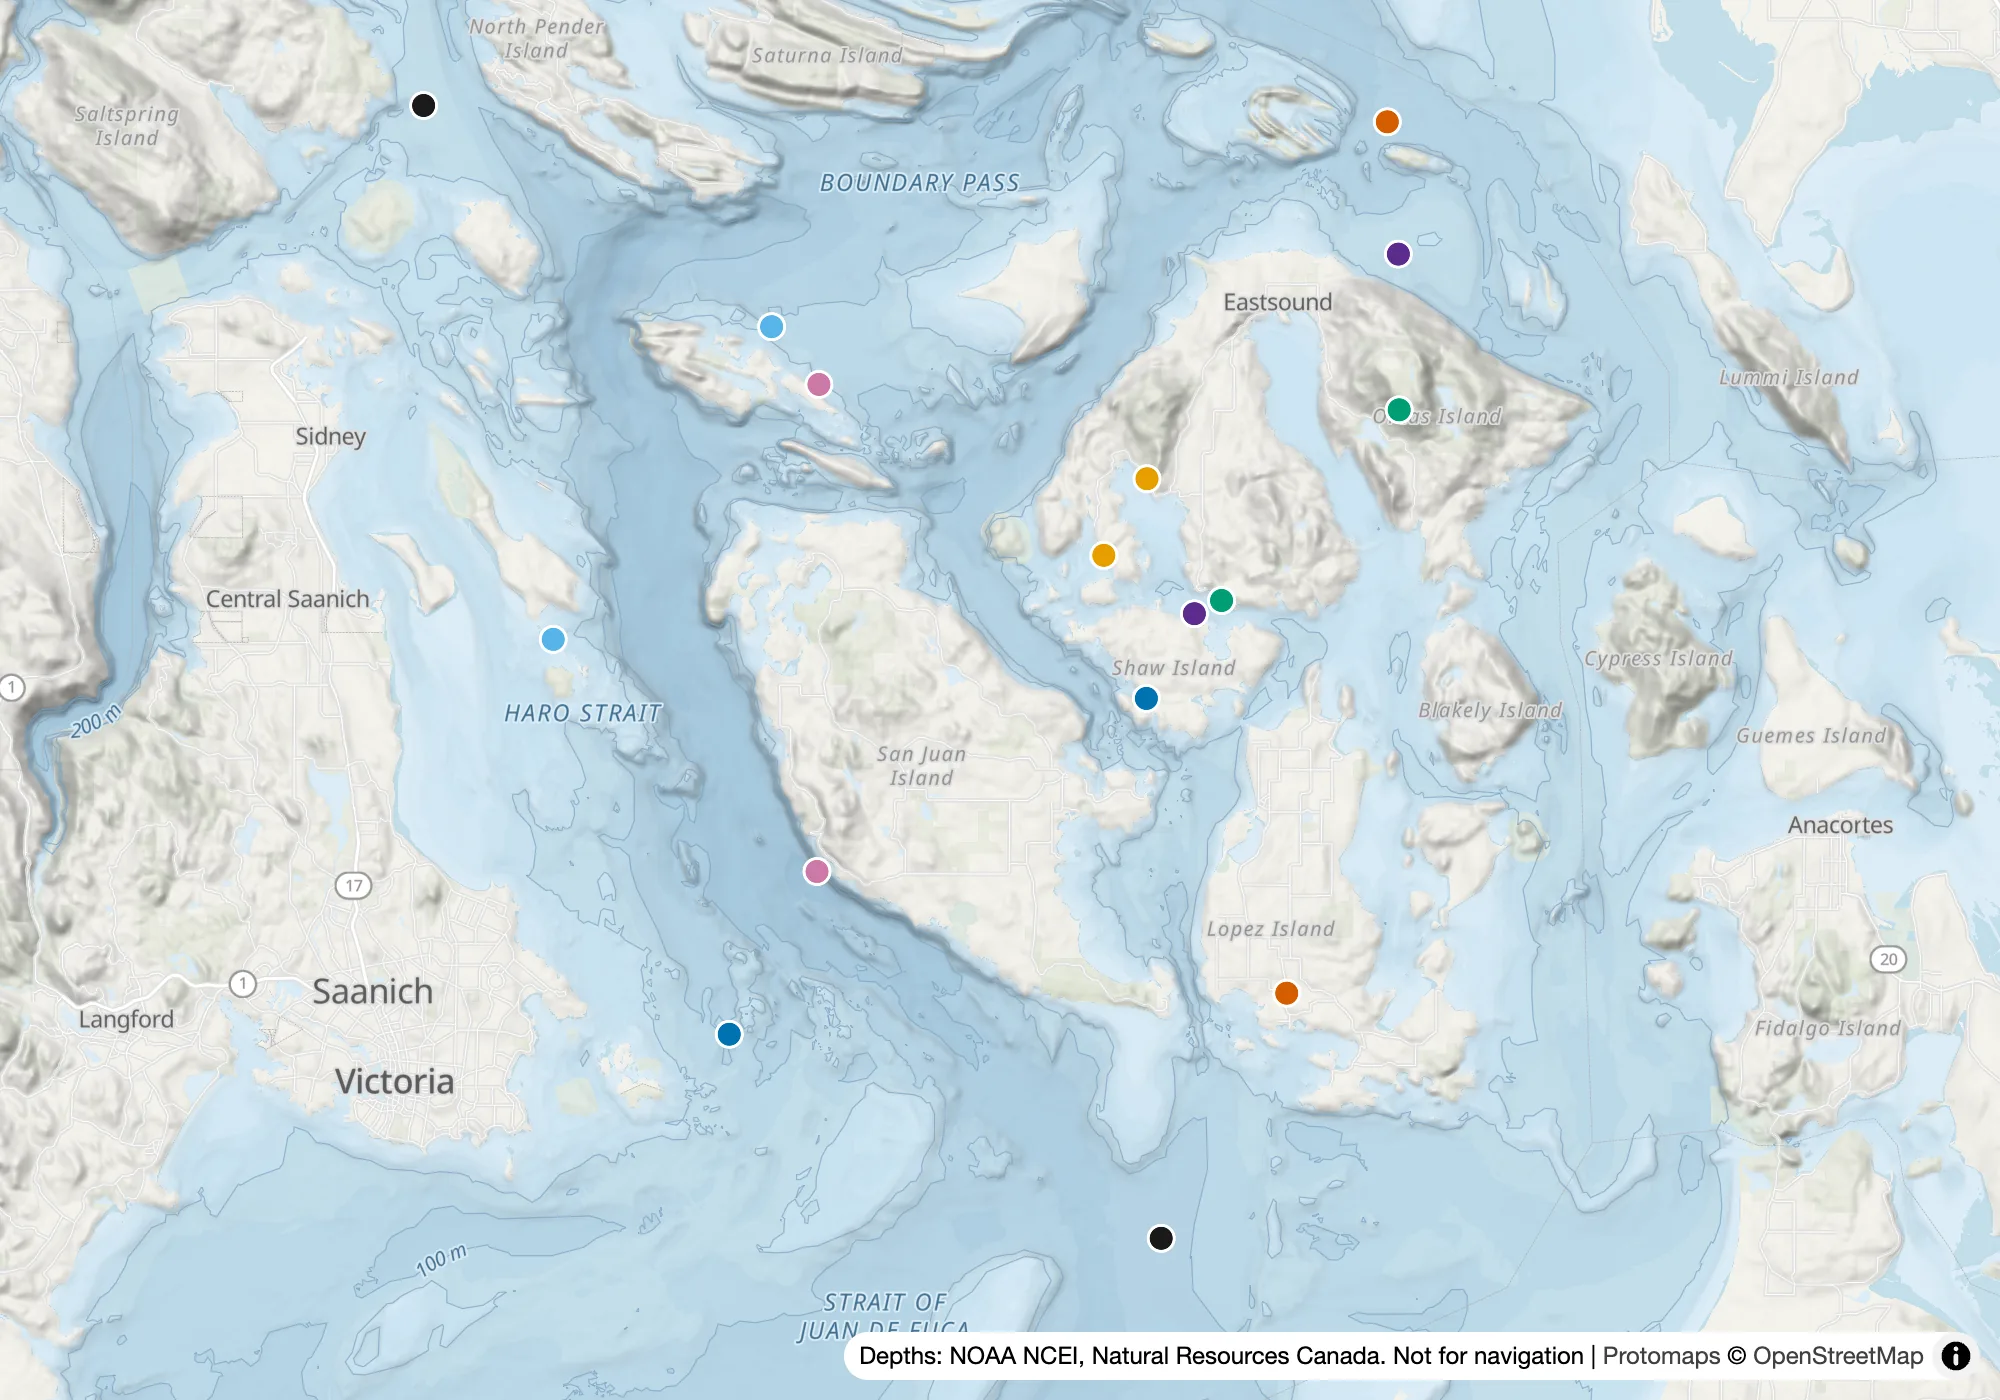
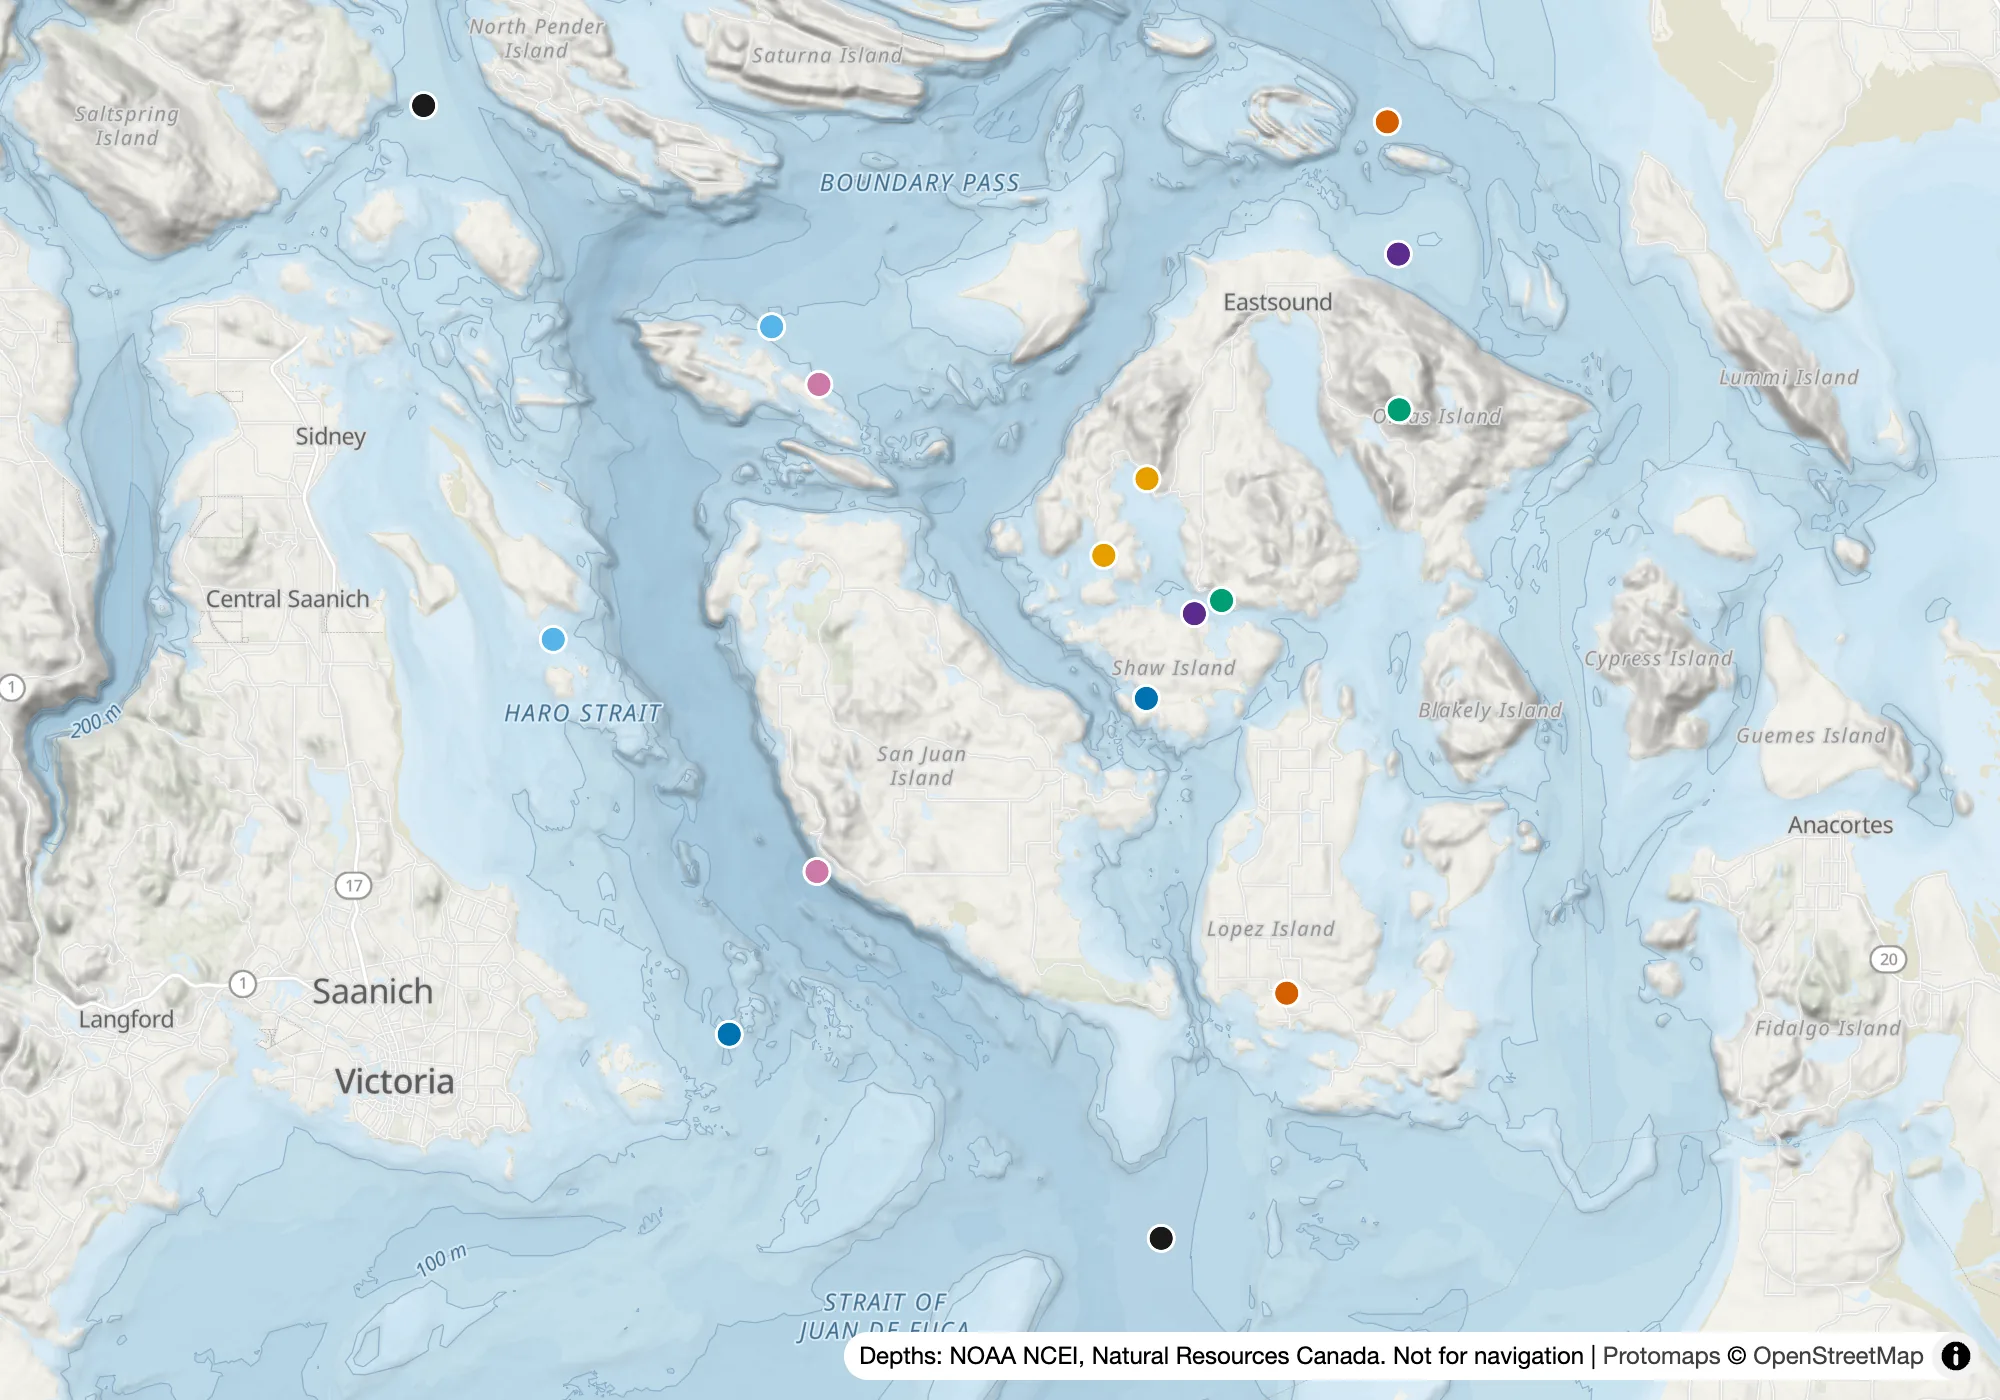
Draw ground that dries at low tide; tint parks only, not reserves
Boundary Bay showed as land under the green of a nature reserve whose
boundary runs over the bay to the border. Reserves and protected areas are
no longer tinted (decision 003), and the mud flats are drawn instead, from
the depth grid: Canada's grid measures from chart datum, so ground that
dries at low tide is above 0 m there. A drying layer of 0-5 m polygons
goes into depth.pmtiles and is drawn under the land, so only what lies
below OpenStreetMap's high-water coastline shows (decision 004).

diff --git a/style/style.ts b/style/style.ts
@@ -34,6 +34,8 @@ const ISOBATH_MINZOOM: [number, number][] = [
 ];
 
 const SEA_LABEL = '#3d6d8f';
+/** Ground that dries at low tide: mud, sand and rock between the tides (decisions/004). */
+const DRYING = '#e3e1cf';
 const ISOBATH_LINE = '#7aa3c2';
 
 const flavor: Flavor = {
@@ -51,9 +53,10 @@ const MARINE_KINDS = ['ocean', 'bay', 'strait', 'sound', 'fjord', 'reef'];
 // Land is one flat colour, shaped by the relief, as on Esri's ocean basemap: what covers
 // it (forest, farmland, hospitals) says nothing about where whales are and competes with
 // the sightings. Parks are the exception, faintly, because many are where people watch
-// from shore, such as Lime Kiln Point. Piers are kept, as part of the shoreline
-// (decisions/003).
-const PARK_KINDS = ['park', 'national_park', 'nature_reserve', 'protected_area'];
+// from shore, such as Lime Kiln Point. Nature reserves and protected areas are left out:
+// some reach out over the sea, like Boundary Bay's, and the style can't clip them to
+// the land. Piers are kept, as part of the shoreline (decisions/003).
+const PARK_KINDS = ['park', 'national_park'];
 const PARK = '#e4eadb';
 
 function isLandCover(id: string): boolean {
@@ -104,9 +107,14 @@ function depthLayers(): { bands: LayerSpecification[]; isobaths: LayerSpecificat
   }
 
   return {
+    // Drying ground is drawn under the land, so only what OpenStreetMap leaves as water,
+    // below its high-water coastline, shows.
     bands: [{
       id: 'depth_bands', type: 'fill', source: 'depth', 'source-layer': 'bands',
       paint: { 'fill-color': tint as never, 'fill-antialias': false },
+    }, {
+      id: 'drying', type: 'fill', source: 'depth', 'source-layer': 'drying',
+      paint: { 'fill-color': DRYING, 'fill-antialias': false },
     }],
     isobaths,
     labels,

diff --git a/decisions/003-land-is-flat-except-parks.md b/decisions/003-land-is-flat-except-parks.md
@@ -10,8 +10,10 @@ The style starts from Protomaps' light flavour, which colours land by what cover
 
 **Land is drawn in one colour, shaped by the relief,** as on Esri's ocean basemap. Protomaps' land-cover layer and its land-use fills are left out of the style.
 
-**Parks are the exception,** in a faint green: parks, national parks, nature reserves and protected areas. Many are where people watch from shore, such as Lime Kiln Point State Park on San Juan Island. Piers are kept too, as part of the shoreline.
+**Parks are the exception,** in a faint green: OpenStreetMap's parks and national parks. Many are where people watch from shore, such as Lime Kiln Point State Park on San Juan Island. Piers are kept too, as part of the shoreline.
+
+Nature reserves and protected areas are not tinted. Some of their boundaries reach out over the sea, like the reserve covering Boundary Bay down to the border, and the style can't clip a fill to the land. Mud flats are drawn from the depth grid instead ([004](004-ground-that-dries-at-low-tide-is-drawn.md)).
 
 ## Known problems
 
-- Where a marine park's boundary in OpenStreetMap takes in the water around an island, the faint green covers that water too. One shows west of Orcas Island at about z10.
+- A park whose boundary in OpenStreetMap takes in the water around it would tint that water too. None shows over the Haro Strait test window now that reserves are left out.

diff --git a/README.md b/README.md
@@ -37,9 +37,10 @@ Anything derived from OpenStreetMap is kept in its own archive, so that the ODbL
 
 ## How depth is drawn
 
-Depth is drawn in two ways, both cut from the same elevation grid:
+Depth is drawn in three ways, all cut from the same elevation grid:
 
 - **Depth bands and isobaths** are vector polygons and lines, darker where deeper. Isobaths carry their depth as a label.
+- **Ground that dries at low tide**, such as the mud flats of Boundary Bay, is a khaki polygon cut from the same grid and drawn under the land, so it shows only below OpenStreetMap's high-water coastline ([004](decisions/004-ground-that-dries-at-low-tide-is-drawn.md)).
 - **Relief**, the light and shadow of the seafloor and land, sits above the land and the bands but under roads and labels, and fades out before it would blur. MapLibre shades it with a `hillshade` layer, from elevation tiles in Mapzen's Terrarium encoding (`elevation.pmtiles`, written by [scripts/elevation_tiles.py](scripts/elevation_tiles.py)), so it can be restyled without a rebuild. Shading baked into image tiles was tried too. It was a little crisper, but its archive was five times the size and every change of style needed a rebuild ([002](decisions/002-the-relief-is-shaded-by-maplibre.md)).
 
 ## Building

diff --git a/decisions/004-ground-that-dries-at-low-tide-is-drawn.md b/decisions/004-ground-that-dries-at-low-tide-is-drawn.md
@@ -1,0 +1,17 @@
+# 004 — Ground that dries at low tide is drawn
+
+**Status:** accepted · **Decided:** 2026-10-13, by Peter
+
+## Context
+
+OpenStreetMap draws the coastline at high water, so everything below it, including mud flats that are bare at low tide, is sea on our map. Boundary Bay is mostly such flats, but the map showed it either as open water or, for a while, under the green of a nature reserve whose boundary runs out over the bay to the border ([003](003-land-is-flat-except-parks.md)).
+
+Canada's depth grid is measured from chart datum, about the lowest tide ([001](001-canadas-depth-grid-comes-first.md)). So ground that dries at low tide has a height above 0 m in it: Boundary Bay's flats are 1.5–2.2 m.
+
+## Decision
+
+**Ground between 0 and 5 m in the depth grid is drawn in a khaki tint, under the land,** the way nautical charts colour drying areas. Drawn under OpenStreetMap's land, it shows only below the high-water coastline, so 5 m only needs to be above the highest tides; the coastline decides where the drying ground ends.
+
+## Known problems
+
+- South of about 47.4°N, the depth grid is NOAA's, measured from about mean sea level. There only the upper half of the drying ground is above 0 m, so less of it shows.

diff --git a/decisions/README.md b/decisions/README.md
@@ -13,3 +13,4 @@ Recorded here:
 - [001](001-canadas-depth-grid-comes-first.md): Canada's depth grid is used wherever it has data, NOAA's elsewhere, each kept in its own vertical datum.
 - [002](002-the-relief-is-shaded-by-maplibre.md): the relief is shaded by MapLibre from elevation tiles, not baked into image tiles.
 - [003](003-land-is-flat-except-parks.md): land is one flat colour, shaped by the relief, except for parks in a faint green.
+- [004](004-ground-that-dries-at-low-tide-is-drawn.md): ground that dries at low tide is drawn from the depth grid, in khaki.
